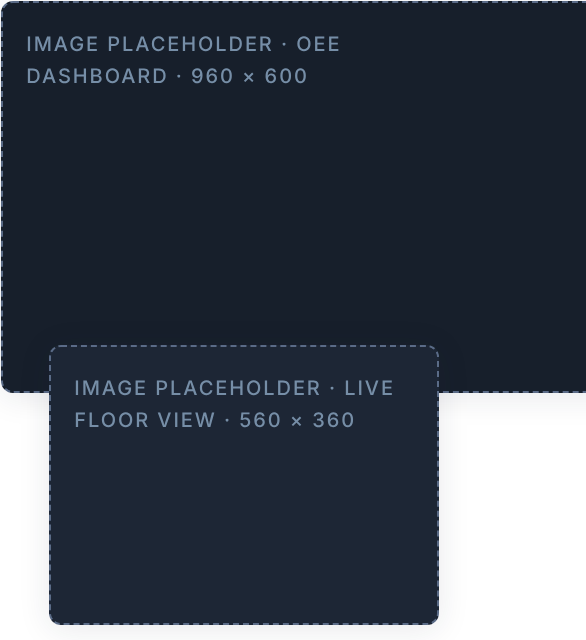
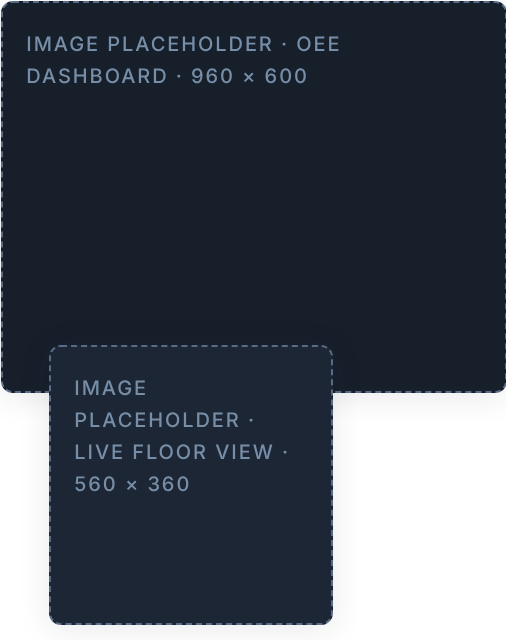
Remove eyebrow numbers and keep header visual inside page padding
Section eyebrows drop their 1-5 prefixes in the web and email versions.
The header screenshot placeholders no longer bleed past the right edge;
the email header image is re-rendered to fit the padded column and is
capped in width on narrow screens.

Claude-Session: https://claude.ai/code/session_01MrrDo2iV2opqVubPzurkxo

diff --git a/faclon-cnc-newsletter/faclon-cnc-intelligence-newsletter-email.html b/faclon-cnc-newsletter/faclon-cnc-intelligence-newsletter-email.html
@@ -24,8 +24,8 @@ a{text-decoration:none;}
 .m-hide{display:none!important;}
 .m-card{height:auto!important;margin-top:16px!important;}
 .m-autoh{height:auto!important;}
-.m-visual{padding:32px 0 0 16px!important;}
-.m-visual img{width:100%!important;}
+.m-visual{padding:32px 16px 0 16px!important;}
+.m-visual img{width:100%!important;max-width:400px!important;}
 .m-h1{font-size:32px!important;line-height:40px!important;}
 .m-h2{font-size:24px!important;line-height:32px!important;}
 .m-fig{font-size:40px!important;line-height:48px!important;}
@@ -49,16 +49,16 @@ a{text-decoration:none;}
 <p style="margin:0;font-family:Inter,Arial,Helvetica,sans-serif;font-size:16px;line-height:24px;color:#CBD5E2;">Spindle hours without a work order, stops without a reason, and OEE built on manual entries quietly drain capacity every shift.</p>
 </td>
 <td class="m-hide" width="32" style="width:32px;font-size:0;line-height:0;">&nbsp;</td>
-<td class="m-col m-visual" width="293" valign="top" style="width:293px;padding:0;">
-<img src="https://raw.githubusercontent.com/ayushiajmera2-lab/Design-KIT/claude/quirky-thompson-3u2ke2/faclon-cnc-newsletter/email-assets/header-visual.png" width="293" height="320" alt="Image placeholder: OEE dashboard and live floor view" style="display:block;width:293px;height:auto;border:0;outline:none;">
+<td class="m-col m-visual" width="293" valign="top" style="width:253px;padding:0 40px 0 0;">
+<img src="https://raw.githubusercontent.com/ayushiajmera2-lab/Design-KIT/claude/quirky-thompson-3u2ke2/faclon-cnc-newsletter/email-assets/header-visual.png" width="253" height="320" alt="Image placeholder: OEE dashboard and live floor view" style="display:block;width:253px;height:auto;border:0;outline:none;">
 </td>
 </tr></table></td></tr><tr><td class="m-sec" bgcolor="#FFFFFF" style="background-color:#FFFFFF;padding:56px 40px;">
-<table role="presentation" width="100%" cellpadding="0" cellspacing="0" border="0"><tr><td style="padding:0 0 32px 0;"><p style="margin:0 0 12px 0;font-family:Inter,Arial,Helvetica,sans-serif;font-size:12px;line-height:18px;font-weight:600;letter-spacing:0.96px;text-transform:uppercase;color:#165FF2;">1. Where CNC Productivity Disappears</p><h2 class="m-h2" style="margin:0 0 12px 0;font-family:'TASA Orbiter',Arial,Helvetica,sans-serif;font-size:32px;line-height:40px;font-weight:600;letter-spacing:-0.01em;color:#0C1927;">Runtime You Can't Explain Is Capacity You Can't Recover</h2><p style="margin:0;font-family:Inter,Arial,Helvetica,sans-serif;font-size:16px;line-height:24px;color:#40566D;">Most shops know when a machine is running. Few know what it's running, for whom, or why it stopped.</p></td></tr><tr><td style="padding:0 0 24px 0;"><table role="presentation" width="100%" cellpadding="0" cellspacing="0" border="0"><tr><td width="8" valign="top" style="padding-top:8px;padding-bottom:12px;"><div style="width:8px;height:8px;background-color:#165FF2;border-radius:2px;font-size:0;line-height:0;">&nbsp;</div></td>
+<table role="presentation" width="100%" cellpadding="0" cellspacing="0" border="0"><tr><td style="padding:0 0 32px 0;"><p style="margin:0 0 12px 0;font-family:Inter,Arial,Helvetica,sans-serif;font-size:12px;line-height:18px;font-weight:600;letter-spacing:0.96px;text-transform:uppercase;color:#165FF2;">Where CNC Productivity Disappears</p><h2 class="m-h2" style="margin:0 0 12px 0;font-family:'TASA Orbiter',Arial,Helvetica,sans-serif;font-size:32px;line-height:40px;font-weight:600;letter-spacing:-0.01em;color:#0C1927;">Runtime You Can't Explain Is Capacity You Can't Recover</h2><p style="margin:0;font-family:Inter,Arial,Helvetica,sans-serif;font-size:16px;line-height:24px;color:#40566D;">Most shops know when a machine is running. Few know what it's running, for whom, or why it stopped.</p></td></tr><tr><td style="padding:0 0 24px 0;"><table role="presentation" width="100%" cellpadding="0" cellspacing="0" border="0"><tr><td width="8" valign="top" style="padding-top:8px;padding-bottom:12px;"><div style="width:8px;height:8px;background-color:#165FF2;border-radius:2px;font-size:0;line-height:0;">&nbsp;</div></td>
 <td valign="top" style="padding-left:12px;padding-bottom:12px;font-family:Inter,Arial,Helvetica,sans-serif;font-size:16px;line-height:24px;color:#243547;">Spindle hours aren't linked to jobs or operators</td></tr><tr><td width="8" valign="top" style="padding-top:8px;padding-bottom:12px;"><div style="width:8px;height:8px;background-color:#165FF2;border-radius:2px;font-size:0;line-height:0;">&nbsp;</div></td>
 <td valign="top" style="padding-left:12px;padding-bottom:12px;font-family:Inter,Arial,Helvetica,sans-serif;font-size:16px;line-height:24px;color:#243547;">Downtime reasons are logged late, inaccurately, or not at all</td></tr><tr><td width="8" valign="top" style="padding-top:8px;padding-bottom:12px;"><div style="width:8px;height:8px;background-color:#165FF2;border-radius:2px;font-size:0;line-height:0;">&nbsp;</div></td>
 <td valign="top" style="padding-left:12px;padding-bottom:12px;font-family:Inter,Arial,Helvetica,sans-serif;font-size:16px;line-height:24px;color:#243547;">OEE is estimated at shift-end from manual inputs</td></tr><tr><td width="8" valign="top" style="padding-top:8px;"><div style="width:8px;height:8px;background-color:#165FF2;border-radius:2px;font-size:0;line-height:0;">&nbsp;</div></td>
 <td valign="top" style="padding-left:12px;font-family:Inter,Arial,Helvetica,sans-serif;font-size:16px;line-height:24px;color:#243547;">Losses surface only in reviews, long after they could be fixed</td></tr></table></td></tr><tr><td bgcolor="#F4F8FF" style="background-color:#F4F8FF;border-left:3px solid #165FF2;border-radius:4px;padding:16px 20px;font-family:Inter,Arial,Helvetica,sans-serif;font-size:16px;line-height:24px;font-weight:600;color:#0C1927;">The result: reporting you can't trust and losses you can't see.</td></tr></table></td></tr><tr><td class="m-sec" bgcolor="#F1F5FA" style="background-color:#F1F5FA;padding:56px 40px;">
-<table role="presentation" width="100%" cellpadding="0" cellspacing="0" border="0"><tr><td style="padding:0 0 32px 0;"><p style="margin:0 0 12px 0;font-family:Inter,Arial,Helvetica,sans-serif;font-size:12px;line-height:18px;font-weight:600;letter-spacing:0.96px;text-transform:uppercase;color:#165FF2;">2. Faclon Labs CNC Intelligence</p><h2 class="m-h2" style="margin:0 0 12px 0;font-family:'TASA Orbiter',Arial,Helvetica,sans-serif;font-size:32px;line-height:40px;font-weight:600;letter-spacing:-0.01em;color:#0C1927;">Every Spindle Hour. Every Stop. Every Job. Accounted For.</h2><p style="margin:0;font-family:Inter,Arial,Helvetica,sans-serif;font-size:16px;line-height:24px;color:#40566D;">Faclon Labs connects with your CNC fleet to capture machine states, control spindle access and calculate OEE from actual machine data.</p></td></tr><tr><td><table role="presentation" width="100%" cellpadding="0" cellspacing="0" border="0"><tr><td class="m-col m-card" width="296" valign="top" height="379" bgcolor="#FFFFFF" style="width:296px;height:379px;background-color:#FFFFFF;border-radius:6px;padding:16px;box-shadow:0 2px 16px rgba(25,40,57,0.10);"><table role="presentation" class="m-autoh" width="100%" height="100%" cellpadding="0" cellspacing="0" border="0" style="height:100%;">
+<table role="presentation" width="100%" cellpadding="0" cellspacing="0" border="0"><tr><td style="padding:0 0 32px 0;"><p style="margin:0 0 12px 0;font-family:Inter,Arial,Helvetica,sans-serif;font-size:12px;line-height:18px;font-weight:600;letter-spacing:0.96px;text-transform:uppercase;color:#165FF2;">Faclon Labs CNC Intelligence</p><h2 class="m-h2" style="margin:0 0 12px 0;font-family:'TASA Orbiter',Arial,Helvetica,sans-serif;font-size:32px;line-height:40px;font-weight:600;letter-spacing:-0.01em;color:#0C1927;">Every Spindle Hour. Every Stop. Every Job. Accounted For.</h2><p style="margin:0;font-family:Inter,Arial,Helvetica,sans-serif;font-size:16px;line-height:24px;color:#40566D;">Faclon Labs connects with your CNC fleet to capture machine states, control spindle access and calculate OEE from actual machine data.</p></td></tr><tr><td><table role="presentation" width="100%" cellpadding="0" cellspacing="0" border="0"><tr><td class="m-col m-card" width="296" valign="top" height="379" bgcolor="#FFFFFF" style="width:296px;height:379px;background-color:#FFFFFF;border-radius:6px;padding:16px;box-shadow:0 2px 16px rgba(25,40,57,0.10);"><table role="presentation" class="m-autoh" width="100%" height="100%" cellpadding="0" cellspacing="0" border="0" style="height:100%;">
 <tr><td valign="top" style="padding:0 0 16px 0;font-family:'TASA Orbiter',Arial,Helvetica,sans-serif;font-size:20px;line-height:28px;font-weight:600;letter-spacing:-0.01em;color:#0C1927;">Spindle &amp; Work-Order Control</td></tr>
 <tr><td style="padding:0 0 16px 0;"><p style="margin:0 0 4px 0;font-family:'TASA Orbiter',Arial,Helvetica,sans-serif;font-size:16px;line-height:20px;font-weight:500;letter-spacing:-0.01em;color:#0C1927;">Spindle Interlocking</p><p style="margin:0;font-family:Inter,Arial,Helvetica,sans-serif;font-size:14px;line-height:22px;color:#40566D;">Machines run only against valid, open work orders assigned to them.</p></td></tr><tr><td style="padding:0 0 16px 0;"><p style="margin:0 0 4px 0;font-family:'TASA Orbiter',Arial,Helvetica,sans-serif;font-size:16px;line-height:20px;font-weight:500;letter-spacing:-0.01em;color:#0C1927;">Work-Order Traceability</p><p style="margin:0;font-family:Inter,Arial,Helvetica,sans-serif;font-size:14px;line-height:22px;color:#40566D;">Every run-hour and cycle is linked to the job, part and operator.</p></td></tr><tr><td style="padding:0 0 20px 0;"><p style="margin:0 0 4px 0;font-family:'TASA Orbiter',Arial,Helvetica,sans-serif;font-size:16px;line-height:20px;font-weight:500;letter-spacing:-0.01em;color:#0C1927;">Operator Validation</p><p style="margin:0;font-family:Inter,Arial,Helvetica,sans-serif;font-size:14px;line-height:22px;color:#40566D;">Work-order and operator checks happen at the machine before production starts.</p></td></tr>
 <tr><td valign="bottom" style="border-top:1px solid #E3EAF3;padding:12px 0 0 0;font-family:Inter,Arial,Helvetica,sans-serif;font-size:14px;line-height:22px;font-weight:600;color:#124ED0;">Every spindle hour tied to a job and operator.</td></tr></table></td><td class="m-hide" width="24" style="width:24px;font-size:0;line-height:0;">&nbsp;</td><td class="m-col m-card" width="296" valign="top" height="379" bgcolor="#FFFFFF" style="width:296px;height:379px;background-color:#FFFFFF;border-radius:6px;padding:16px;box-shadow:0 2px 16px rgba(25,40,57,0.10);"><table role="presentation" class="m-autoh" width="100%" height="100%" cellpadding="0" cellspacing="0" border="0" style="height:100%;">
@@ -71,7 +71,7 @@ a{text-decoration:none;}
 <tr><td valign="top" style="padding:0 0 16px 0;font-family:'TASA Orbiter',Arial,Helvetica,sans-serif;font-size:20px;line-height:28px;font-weight:600;letter-spacing:-0.01em;color:#0C1927;">Loss Visibility</td></tr>
 <tr><td style="padding:0 0 16px 0;"><p style="margin:0 0 4px 0;font-family:'TASA Orbiter',Arial,Helvetica,sans-serif;font-size:16px;line-height:20px;font-weight:500;letter-spacing:-0.01em;color:#0C1927;">Downtime Pareto Analytics</p><p style="margin:0;font-family:Inter,Arial,Helvetica,sans-serif;font-size:14px;line-height:22px;color:#40566D;">Rank recurring losses by machine, shift and job to identify the biggest causes.</p></td></tr><tr><td style="padding:0 0 16px 0;"><p style="margin:0 0 4px 0;font-family:'TASA Orbiter',Arial,Helvetica,sans-serif;font-size:16px;line-height:20px;font-weight:500;letter-spacing:-0.01em;color:#0C1927;">Live Alerts</p><p style="margin:0;font-family:Inter,Arial,Helvetica,sans-serif;font-size:14px;line-height:22px;color:#40566D;">Flag prolonged stops and performance drops as they happen.</p></td></tr><tr><td style="padding:0 0 20px 0;"><p style="margin:0 0 4px 0;font-family:'TASA Orbiter',Arial,Helvetica,sans-serif;font-size:16px;line-height:20px;font-weight:500;letter-spacing:-0.01em;color:#0C1927;">Shift-Wise Comparison</p><p style="margin:0;font-family:Inter,Arial,Helvetica,sans-serif;font-size:14px;line-height:22px;color:#40566D;">Compare performance across shifts to identify recurring patterns.</p></td></tr>
 <tr><td valign="bottom" style="border-top:1px solid #E3EAF3;padding:12px 0 0 0;font-family:Inter,Arial,Helvetica,sans-serif;font-size:14px;line-height:22px;font-weight:600;color:#124ED0;">Losses visible while they can still be fixed.</td></tr></table></td></tr></table></td></tr></table></td></tr><tr><td class="m-sec" bgcolor="#FFFFFF" style="background-color:#FFFFFF;padding:56px 40px;">
-<table role="presentation" width="100%" cellpadding="0" cellspacing="0" border="0"><tr><td style="padding:0 0 32px 0;"><p style="margin:0 0 12px 0;font-family:Inter,Arial,Helvetica,sans-serif;font-size:12px;line-height:18px;font-weight:600;letter-spacing:0.96px;text-transform:uppercase;color:#165FF2;">3. What Your Team Sees and Uses</p><h2 class="m-h2" style="margin:0 0 12px 0;font-family:'TASA Orbiter',Arial,Helvetica,sans-serif;font-size:32px;line-height:40px;font-weight:600;letter-spacing:-0.01em;color:#0C1927;">One Shop-Floor View. From Machine State to OEE.</h2><p style="margin:0;font-family:Inter,Arial,Helvetica,sans-serif;font-size:16px;line-height:24px;color:#40566D;">One on-premise platform, accessible from any plant computer or tablet on the LAN.</p></td></tr><tr><td><table role="presentation" width="100%" cellpadding="0" cellspacing="0" border="0"><tr><td class="m-col m-card" width="294" valign="top" bgcolor="#FFFFFF" style="width:294px;background-color:#FFFFFF;border:1px solid #E3EAF3;border-radius:6px;padding:16px;"><p style="margin:0 0 12px 0;font-family:'TASA Orbiter',Arial,Helvetica,sans-serif;font-size:18px;line-height:24px;font-weight:500;letter-spacing:-0.01em;color:#0C1927;">Operator Console</p><table role="presentation" width="100%" cellpadding="0" cellspacing="0" border="0"><tr><td width="8" valign="top" style="padding-top:7px;padding-bottom:12px;"><div style="width:8px;height:8px;background-color:#165FF2;border-radius:2px;font-size:0;line-height:0;">&nbsp;</div></td>
+<table role="presentation" width="100%" cellpadding="0" cellspacing="0" border="0"><tr><td style="padding:0 0 32px 0;"><p style="margin:0 0 12px 0;font-family:Inter,Arial,Helvetica,sans-serif;font-size:12px;line-height:18px;font-weight:600;letter-spacing:0.96px;text-transform:uppercase;color:#165FF2;">What Your Team Sees and Uses</p><h2 class="m-h2" style="margin:0 0 12px 0;font-family:'TASA Orbiter',Arial,Helvetica,sans-serif;font-size:32px;line-height:40px;font-weight:600;letter-spacing:-0.01em;color:#0C1927;">One Shop-Floor View. From Machine State to OEE.</h2><p style="margin:0;font-family:Inter,Arial,Helvetica,sans-serif;font-size:16px;line-height:24px;color:#40566D;">One on-premise platform, accessible from any plant computer or tablet on the LAN.</p></td></tr><tr><td><table role="presentation" width="100%" cellpadding="0" cellspacing="0" border="0"><tr><td class="m-col m-card" width="294" valign="top" bgcolor="#FFFFFF" style="width:294px;background-color:#FFFFFF;border:1px solid #E3EAF3;border-radius:6px;padding:16px;"><p style="margin:0 0 12px 0;font-family:'TASA Orbiter',Arial,Helvetica,sans-serif;font-size:18px;line-height:24px;font-weight:500;letter-spacing:-0.01em;color:#0C1927;">Operator Console</p><table role="presentation" width="100%" cellpadding="0" cellspacing="0" border="0"><tr><td width="8" valign="top" style="padding-top:7px;padding-bottom:12px;"><div style="width:8px;height:8px;background-color:#165FF2;border-radius:2px;font-size:0;line-height:0;">&nbsp;</div></td>
 <td valign="top" style="padding-left:12px;padding-bottom:12px;font-family:Inter,Arial,Helvetica,sans-serif;font-size:14px;line-height:22px;color:#243547;">Enter the work order and release the spindle in seconds</td></tr><tr><td width="8" valign="top" style="padding-top:7px;"><div style="width:8px;height:8px;background-color:#165FF2;border-radius:2px;font-size:0;line-height:0;">&nbsp;</div></td>
 <td valign="top" style="padding-left:12px;font-family:Inter,Arial,Helvetica,sans-serif;font-size:14px;line-height:22px;color:#243547;">Log downtime reasons directly at the machine</td></tr></table></td><td class="m-hide" width="24" style="width:24px;font-size:0;line-height:0;">&nbsp;</td><td class="m-col m-card" width="294" valign="top" bgcolor="#FFFFFF" style="width:294px;background-color:#FFFFFF;border:1px solid #E3EAF3;border-radius:6px;padding:16px;"><p style="margin:0 0 12px 0;font-family:'TASA Orbiter',Arial,Helvetica,sans-serif;font-size:18px;line-height:24px;font-weight:500;letter-spacing:-0.01em;color:#0C1927;">Live Floor View</p><table role="presentation" width="100%" cellpadding="0" cellspacing="0" border="0"><tr><td width="8" valign="top" style="padding-top:7px;padding-bottom:12px;"><div style="width:8px;height:8px;background-color:#165FF2;border-radius:2px;font-size:0;line-height:0;">&nbsp;</div></td>
 <td valign="top" style="padding-left:12px;padding-bottom:12px;font-family:Inter,Arial,Helvetica,sans-serif;font-size:14px;line-height:22px;color:#243547;">Every CNC on one screen, with live machine states</td></tr><tr><td width="8" valign="top" style="padding-top:7px;"><div style="width:8px;height:8px;background-color:#165FF2;border-radius:2px;font-size:0;line-height:0;">&nbsp;</div></td>
@@ -80,8 +80,8 @@ a{text-decoration:none;}
 <td valign="top" style="padding-left:12px;font-family:Inter,Arial,Helvetica,sans-serif;font-size:14px;line-height:22px;color:#243547;">Drill down from plant to machine, shift and job</td></tr></table></td><td class="m-hide" width="24" style="width:24px;font-size:0;line-height:0;">&nbsp;</td><td class="m-col m-card" width="294" valign="top" bgcolor="#FFFFFF" style="width:294px;background-color:#FFFFFF;border:1px solid #E3EAF3;border-radius:6px;padding:16px;"><p style="margin:0 0 12px 0;font-family:'TASA Orbiter',Arial,Helvetica,sans-serif;font-size:18px;line-height:24px;font-weight:500;letter-spacing:-0.01em;color:#0C1927;">Reports &amp; Records</p><table role="presentation" width="100%" cellpadding="0" cellspacing="0" border="0"><tr><td width="8" valign="top" style="padding-top:7px;padding-bottom:12px;"><div style="width:8px;height:8px;background-color:#165FF2;border-radius:2px;font-size:0;line-height:0;">&nbsp;</div></td>
 <td valign="top" style="padding-left:12px;padding-bottom:12px;font-family:Inter,Arial,Helvetica,sans-serif;font-size:14px;line-height:22px;color:#243547;">Shift summaries generated automatically</td></tr><tr><td width="8" valign="top" style="padding-top:7px;"><div style="width:8px;height:8px;background-color:#165FF2;border-radius:2px;font-size:0;line-height:0;">&nbsp;</div></td>
 <td valign="top" style="padding-left:12px;font-family:Inter,Arial,Helvetica,sans-serif;font-size:14px;line-height:22px;color:#243547;">Complete job history for costing, planning and audits</td></tr></table></td></tr></table></td></tr></table></td></tr><tr><td class="m-sec" bgcolor="#0C1927" style="background-color:#0C1927;padding:56px 40px;">
-<table role="presentation" width="100%" cellpadding="0" cellspacing="0" border="0"><tr><td style="padding:0 0 32px 0;"><p style="margin:0 0 12px 0;font-family:Inter,Arial,Helvetica,sans-serif;font-size:12px;line-height:18px;font-weight:600;letter-spacing:0.96px;text-transform:uppercase;color:#8AB1FB;">4. Business Impact</p><h2 class="m-h2" style="margin:0 0 0px 0;font-family:'TASA Orbiter',Arial,Helvetica,sans-serif;font-size:32px;line-height:40px;font-weight:600;letter-spacing:-0.01em;color:#F1F5FA;">What Changes When Every Spindle Hour Is Accountable</h2></td></tr><tr><td><table role="presentation" width="100%" cellpadding="0" cellspacing="0" border="0"><tr><td class="m-col m-card" width="274" valign="top" bgcolor="#171F2B" style="width:274px;background-color:#171F2B;border:1px solid #2D3A4D;border-radius:6px;padding:20px 16px;"><p class="m-fig" style="margin:0 0 8px 0;font-family:'TASA Orbiter',Arial,Helvetica,sans-serif;font-size:48px;line-height:56px;font-weight:700;letter-spacing:-0.02em;color:#68DD68;">20–35%</p><p style="margin:0 0 8px 0;font-family:'TASA Orbiter',Arial,Helvetica,sans-serif;font-size:20px;line-height:28px;font-weight:600;letter-spacing:-0.01em;color:#F1F5FA;">OEE Uplift</p><p style="margin:0;font-family:Inter,Arial,Helvetica,sans-serif;font-size:14px;line-height:22px;color:#CBD5E2;">On legacy CNC fleets</p></td><td class="m-hide" width="24" style="width:24px;font-size:0;line-height:0;">&nbsp;</td><td class="m-col m-card" width="274" valign="top" bgcolor="#171F2B" style="width:274px;background-color:#171F2B;border:1px solid #2D3A4D;border-radius:6px;padding:20px 16px;"><p class="m-fig" style="margin:0 0 8px 0;font-family:'TASA Orbiter',Arial,Helvetica,sans-serif;font-size:48px;line-height:56px;font-weight:700;letter-spacing:-0.02em;color:#68DD68;">100%</p><p style="margin:0 0 8px 0;font-family:'TASA Orbiter',Arial,Helvetica,sans-serif;font-size:20px;line-height:28px;font-weight:600;letter-spacing:-0.01em;color:#F1F5FA;">Order-Traceable Spindle Hours</p><p style="margin:0;font-family:Inter,Arial,Helvetica,sans-serif;font-size:14px;line-height:22px;color:#CBD5E2;">With zero ghost runtime</p></td></tr></table></td></tr><tr><td class="m-gap" height="24" style="height:24px;font-size:0;line-height:0;">&nbsp;</td></tr><tr><td><table role="presentation" width="100%" cellpadding="0" cellspacing="0" border="0"><tr><td class="m-col m-card" width="164" valign="top" bgcolor="#171F2B" style="width:164px;background-color:#171F2B;border:1px solid #2D3A4D;border-radius:6px;padding:20px 16px;"><p style="margin:0 0 8px 0;font-family:'TASA Orbiter',Arial,Helvetica,sans-serif;font-size:18px;line-height:24px;font-weight:500;letter-spacing:-0.01em;color:#F1F5FA;">Faster Loss Recovery</p><p style="margin:0;font-family:Inter,Arial,Helvetica,sans-serif;font-size:14px;line-height:22px;color:#CBD5E2;">Recurring stops become visible within the shift</p></td><td class="m-hide" width="24" style="width:24px;font-size:0;line-height:0;">&nbsp;</td><td class="m-col m-card" width="164" valign="top" bgcolor="#171F2B" style="width:164px;background-color:#171F2B;border:1px solid #2D3A4D;border-radius:6px;padding:20px 16px;"><p style="margin:0 0 8px 0;font-family:'TASA Orbiter',Arial,Helvetica,sans-serif;font-size:18px;line-height:24px;font-weight:500;letter-spacing:-0.01em;color:#F1F5FA;">Trusted Production Data</p><p style="margin:0;font-family:Inter,Arial,Helvetica,sans-serif;font-size:14px;line-height:22px;color:#CBD5E2;">Capacity, costing and scheduling based on actual machine behaviour</p></td><td class="m-hide" width="24" style="width:24px;font-size:0;line-height:0;">&nbsp;</td><td class="m-col m-card" width="164" valign="top" bgcolor="#171F2B" style="width:164px;background-color:#171F2B;border:1px solid #2D3A4D;border-radius:6px;padding:20px 16px;"><p style="margin:0 0 8px 0;font-family:'TASA Orbiter',Arial,Helvetica,sans-serif;font-size:18px;line-height:24px;font-weight:500;letter-spacing:-0.01em;color:#F1F5FA;">Less Manual Reporting</p><p style="margin:0;font-family:Inter,Arial,Helvetica,sans-serif;font-size:14px;line-height:22px;color:#CBD5E2;">Supervisors spend less time compiling data and more time acting on it</p></td></tr></table></td></tr><tr><td style="padding:32px 0 0 0;"><table role="presentation" width="100%" cellpadding="0" cellspacing="0" border="0"><tr><td style="border-top:1px solid #2D3A4D;padding:24px 0 0 0;font-family:'TASA Orbiter',Arial,Helvetica,sans-serif;font-size:20px;line-height:28px;font-weight:600;letter-spacing:-0.01em;color:#F1F5FA;">From machine activity to measurable productivity.</td></tr></table></td></tr></table></td></tr><tr><td class="m-sec" bgcolor="#FFFFFF" style="background-color:#FFFFFF;padding:56px 40px;">
-<table role="presentation" width="100%" cellpadding="0" cellspacing="0" border="0"><tr><td style="padding:0 0 32px 0;"><p style="margin:0 0 12px 0;font-family:Inter,Arial,Helvetica,sans-serif;font-size:12px;line-height:18px;font-weight:600;letter-spacing:0.96px;text-transform:uppercase;color:#165FF2;">5. Why Faclon Labs</p><h2 class="m-h2" style="margin:0 0 0px 0;font-family:'TASA Orbiter',Arial,Helvetica,sans-serif;font-size:32px;line-height:40px;font-weight:600;letter-spacing:-0.01em;color:#0C1927;">Built for Mixed, Legacy and Modern CNC Fleets</h2></td></tr><tr><td><table role="presentation" width="100%" cellpadding="0" cellspacing="0" border="0" bgcolor="#FFFFFF" style="background-color:#FFFFFF;border:1px solid #E3EAF3;border-radius:8px;border-collapse:separate;overflow:hidden;"><tr><td class="m-col m-why" width="50%" valign="top" style="width:50%;border-right:1px solid #E3EAF3;border-bottom:1px solid #E3EAF3;padding:24px;"><img src="https://raw.githubusercontent.com/ayushiajmera2-lab/Design-KIT/claude/quirky-thompson-3u2ke2/faclon-cnc-newsletter/email-assets/icon-controller.png" width="40" height="41" alt="" style="display:block;width:40px;height:auto;border:0;outline:none;margin:0 0 16px 0;"><p style="margin:0 0 8px 0;font-family:'TASA Orbiter',Arial,Helvetica,sans-serif;font-size:18px;line-height:24px;font-weight:500;letter-spacing:-0.01em;color:#0C1927;">Controller-Agnostic</p><p style="margin:0;font-family:Inter,Arial,Helvetica,sans-serif;font-size:14px;line-height:22px;color:#40566D;">Works alongside Fanuc, Siemens, Mitsubishi and legacy DROs.</p></td><td class="m-col m-why" width="50%" valign="top" style="width:50%;border-bottom:1px solid #E3EAF3;padding:24px;"><img src="https://raw.githubusercontent.com/ayushiajmera2-lab/Design-KIT/claude/quirky-thompson-3u2ke2/faclon-cnc-newsletter/email-assets/icon-disruption.png" width="40" height="41" alt="" style="display:block;width:40px;height:auto;border:0;outline:none;margin:0 0 16px 0;"><p style="margin:0 0 8px 0;font-family:'TASA Orbiter',Arial,Helvetica,sans-serif;font-size:18px;line-height:24px;font-weight:500;letter-spacing:-0.01em;color:#0C1927;">Zero Disruption</p><p style="margin:0;font-family:Inter,Arial,Helvetica,sans-serif;font-size:14px;line-height:22px;color:#40566D;">No ladder edits or controller modifications required.</p></td></tr><tr><td class="m-col m-why" width="50%" valign="top" style="width:50%;border-right:1px solid #E3EAF3;padding:24px;"><img src="https://raw.githubusercontent.com/ayushiajmera2-lab/Design-KIT/claude/quirky-thompson-3u2ke2/faclon-cnc-newsletter/email-assets/icon-secure.png" width="40" height="41" alt="" style="display:block;width:40px;height:auto;border:0;outline:none;margin:0 0 16px 0;"><p style="margin:0 0 8px 0;font-family:'TASA Orbiter',Arial,Helvetica,sans-serif;font-size:18px;line-height:24px;font-weight:500;letter-spacing:-0.01em;color:#0C1927;">On-Premise &amp; Secure</p><p style="margin:0;font-family:Inter,Arial,Helvetica,sans-serif;font-size:14px;line-height:22px;color:#40566D;">Software and data stay inside the plant, with no external data egress.</p></td><td class="m-col m-why m-why-last" width="50%" valign="top" style="width:50%;padding:24px;"><img src="https://raw.githubusercontent.com/ayushiajmera2-lab/Design-KIT/claude/quirky-thompson-3u2ke2/faclon-cnc-newsletter/email-assets/icon-scalable.png" width="40" height="41" alt="" style="display:block;width:40px;height:auto;border:0;outline:none;margin:0 0 16px 0;"><p style="margin:0 0 8px 0;font-family:'TASA Orbiter',Arial,Helvetica,sans-serif;font-size:18px;line-height:24px;font-weight:500;letter-spacing:-0.01em;color:#0C1927;">Scalable Platform</p><p style="margin:0;font-family:Inter,Arial,Helvetica,sans-serif;font-size:14px;line-height:22px;color:#40566D;">Start with a few machines and expand across cells, lines, energy, utilities and asset health.</p></td></tr></table></td></tr></table></td></tr><tr><td class="m-sec" bgcolor="#165FF2" style="background-color:#165FF2;padding:56px 40px;">
+<table role="presentation" width="100%" cellpadding="0" cellspacing="0" border="0"><tr><td style="padding:0 0 32px 0;"><p style="margin:0 0 12px 0;font-family:Inter,Arial,Helvetica,sans-serif;font-size:12px;line-height:18px;font-weight:600;letter-spacing:0.96px;text-transform:uppercase;color:#8AB1FB;">Business Impact</p><h2 class="m-h2" style="margin:0 0 0px 0;font-family:'TASA Orbiter',Arial,Helvetica,sans-serif;font-size:32px;line-height:40px;font-weight:600;letter-spacing:-0.01em;color:#F1F5FA;">What Changes When Every Spindle Hour Is Accountable</h2></td></tr><tr><td><table role="presentation" width="100%" cellpadding="0" cellspacing="0" border="0"><tr><td class="m-col m-card" width="274" valign="top" bgcolor="#171F2B" style="width:274px;background-color:#171F2B;border:1px solid #2D3A4D;border-radius:6px;padding:20px 16px;"><p class="m-fig" style="margin:0 0 8px 0;font-family:'TASA Orbiter',Arial,Helvetica,sans-serif;font-size:48px;line-height:56px;font-weight:700;letter-spacing:-0.02em;color:#68DD68;">20–35%</p><p style="margin:0 0 8px 0;font-family:'TASA Orbiter',Arial,Helvetica,sans-serif;font-size:20px;line-height:28px;font-weight:600;letter-spacing:-0.01em;color:#F1F5FA;">OEE Uplift</p><p style="margin:0;font-family:Inter,Arial,Helvetica,sans-serif;font-size:14px;line-height:22px;color:#CBD5E2;">On legacy CNC fleets</p></td><td class="m-hide" width="24" style="width:24px;font-size:0;line-height:0;">&nbsp;</td><td class="m-col m-card" width="274" valign="top" bgcolor="#171F2B" style="width:274px;background-color:#171F2B;border:1px solid #2D3A4D;border-radius:6px;padding:20px 16px;"><p class="m-fig" style="margin:0 0 8px 0;font-family:'TASA Orbiter',Arial,Helvetica,sans-serif;font-size:48px;line-height:56px;font-weight:700;letter-spacing:-0.02em;color:#68DD68;">100%</p><p style="margin:0 0 8px 0;font-family:'TASA Orbiter',Arial,Helvetica,sans-serif;font-size:20px;line-height:28px;font-weight:600;letter-spacing:-0.01em;color:#F1F5FA;">Order-Traceable Spindle Hours</p><p style="margin:0;font-family:Inter,Arial,Helvetica,sans-serif;font-size:14px;line-height:22px;color:#CBD5E2;">With zero ghost runtime</p></td></tr></table></td></tr><tr><td class="m-gap" height="24" style="height:24px;font-size:0;line-height:0;">&nbsp;</td></tr><tr><td><table role="presentation" width="100%" cellpadding="0" cellspacing="0" border="0"><tr><td class="m-col m-card" width="164" valign="top" bgcolor="#171F2B" style="width:164px;background-color:#171F2B;border:1px solid #2D3A4D;border-radius:6px;padding:20px 16px;"><p style="margin:0 0 8px 0;font-family:'TASA Orbiter',Arial,Helvetica,sans-serif;font-size:18px;line-height:24px;font-weight:500;letter-spacing:-0.01em;color:#F1F5FA;">Faster Loss Recovery</p><p style="margin:0;font-family:Inter,Arial,Helvetica,sans-serif;font-size:14px;line-height:22px;color:#CBD5E2;">Recurring stops become visible within the shift</p></td><td class="m-hide" width="24" style="width:24px;font-size:0;line-height:0;">&nbsp;</td><td class="m-col m-card" width="164" valign="top" bgcolor="#171F2B" style="width:164px;background-color:#171F2B;border:1px solid #2D3A4D;border-radius:6px;padding:20px 16px;"><p style="margin:0 0 8px 0;font-family:'TASA Orbiter',Arial,Helvetica,sans-serif;font-size:18px;line-height:24px;font-weight:500;letter-spacing:-0.01em;color:#F1F5FA;">Trusted Production Data</p><p style="margin:0;font-family:Inter,Arial,Helvetica,sans-serif;font-size:14px;line-height:22px;color:#CBD5E2;">Capacity, costing and scheduling based on actual machine behaviour</p></td><td class="m-hide" width="24" style="width:24px;font-size:0;line-height:0;">&nbsp;</td><td class="m-col m-card" width="164" valign="top" bgcolor="#171F2B" style="width:164px;background-color:#171F2B;border:1px solid #2D3A4D;border-radius:6px;padding:20px 16px;"><p style="margin:0 0 8px 0;font-family:'TASA Orbiter',Arial,Helvetica,sans-serif;font-size:18px;line-height:24px;font-weight:500;letter-spacing:-0.01em;color:#F1F5FA;">Less Manual Reporting</p><p style="margin:0;font-family:Inter,Arial,Helvetica,sans-serif;font-size:14px;line-height:22px;color:#CBD5E2;">Supervisors spend less time compiling data and more time acting on it</p></td></tr></table></td></tr><tr><td style="padding:32px 0 0 0;"><table role="presentation" width="100%" cellpadding="0" cellspacing="0" border="0"><tr><td style="border-top:1px solid #2D3A4D;padding:24px 0 0 0;font-family:'TASA Orbiter',Arial,Helvetica,sans-serif;font-size:20px;line-height:28px;font-weight:600;letter-spacing:-0.01em;color:#F1F5FA;">From machine activity to measurable productivity.</td></tr></table></td></tr></table></td></tr><tr><td class="m-sec" bgcolor="#FFFFFF" style="background-color:#FFFFFF;padding:56px 40px;">
+<table role="presentation" width="100%" cellpadding="0" cellspacing="0" border="0"><tr><td style="padding:0 0 32px 0;"><p style="margin:0 0 12px 0;font-family:Inter,Arial,Helvetica,sans-serif;font-size:12px;line-height:18px;font-weight:600;letter-spacing:0.96px;text-transform:uppercase;color:#165FF2;">Why Faclon Labs</p><h2 class="m-h2" style="margin:0 0 0px 0;font-family:'TASA Orbiter',Arial,Helvetica,sans-serif;font-size:32px;line-height:40px;font-weight:600;letter-spacing:-0.01em;color:#0C1927;">Built for Mixed, Legacy and Modern CNC Fleets</h2></td></tr><tr><td><table role="presentation" width="100%" cellpadding="0" cellspacing="0" border="0" bgcolor="#FFFFFF" style="background-color:#FFFFFF;border:1px solid #E3EAF3;border-radius:8px;border-collapse:separate;overflow:hidden;"><tr><td class="m-col m-why" width="50%" valign="top" style="width:50%;border-right:1px solid #E3EAF3;border-bottom:1px solid #E3EAF3;padding:24px;"><img src="https://raw.githubusercontent.com/ayushiajmera2-lab/Design-KIT/claude/quirky-thompson-3u2ke2/faclon-cnc-newsletter/email-assets/icon-controller.png" width="40" height="41" alt="" style="display:block;width:40px;height:auto;border:0;outline:none;margin:0 0 16px 0;"><p style="margin:0 0 8px 0;font-family:'TASA Orbiter',Arial,Helvetica,sans-serif;font-size:18px;line-height:24px;font-weight:500;letter-spacing:-0.01em;color:#0C1927;">Controller-Agnostic</p><p style="margin:0;font-family:Inter,Arial,Helvetica,sans-serif;font-size:14px;line-height:22px;color:#40566D;">Works alongside Fanuc, Siemens, Mitsubishi and legacy DROs.</p></td><td class="m-col m-why" width="50%" valign="top" style="width:50%;border-bottom:1px solid #E3EAF3;padding:24px;"><img src="https://raw.githubusercontent.com/ayushiajmera2-lab/Design-KIT/claude/quirky-thompson-3u2ke2/faclon-cnc-newsletter/email-assets/icon-disruption.png" width="40" height="41" alt="" style="display:block;width:40px;height:auto;border:0;outline:none;margin:0 0 16px 0;"><p style="margin:0 0 8px 0;font-family:'TASA Orbiter',Arial,Helvetica,sans-serif;font-size:18px;line-height:24px;font-weight:500;letter-spacing:-0.01em;color:#0C1927;">Zero Disruption</p><p style="margin:0;font-family:Inter,Arial,Helvetica,sans-serif;font-size:14px;line-height:22px;color:#40566D;">No ladder edits or controller modifications required.</p></td></tr><tr><td class="m-col m-why" width="50%" valign="top" style="width:50%;border-right:1px solid #E3EAF3;padding:24px;"><img src="https://raw.githubusercontent.com/ayushiajmera2-lab/Design-KIT/claude/quirky-thompson-3u2ke2/faclon-cnc-newsletter/email-assets/icon-secure.png" width="40" height="41" alt="" style="display:block;width:40px;height:auto;border:0;outline:none;margin:0 0 16px 0;"><p style="margin:0 0 8px 0;font-family:'TASA Orbiter',Arial,Helvetica,sans-serif;font-size:18px;line-height:24px;font-weight:500;letter-spacing:-0.01em;color:#0C1927;">On-Premise &amp; Secure</p><p style="margin:0;font-family:Inter,Arial,Helvetica,sans-serif;font-size:14px;line-height:22px;color:#40566D;">Software and data stay inside the plant, with no external data egress.</p></td><td class="m-col m-why m-why-last" width="50%" valign="top" style="width:50%;padding:24px;"><img src="https://raw.githubusercontent.com/ayushiajmera2-lab/Design-KIT/claude/quirky-thompson-3u2ke2/faclon-cnc-newsletter/email-assets/icon-scalable.png" width="40" height="41" alt="" style="display:block;width:40px;height:auto;border:0;outline:none;margin:0 0 16px 0;"><p style="margin:0 0 8px 0;font-family:'TASA Orbiter',Arial,Helvetica,sans-serif;font-size:18px;line-height:24px;font-weight:500;letter-spacing:-0.01em;color:#0C1927;">Scalable Platform</p><p style="margin:0;font-family:Inter,Arial,Helvetica,sans-serif;font-size:14px;line-height:22px;color:#40566D;">Start with a few machines and expand across cells, lines, energy, utilities and asset health.</p></td></tr></table></td></tr></table></td></tr><tr><td class="m-sec" bgcolor="#165FF2" style="background-color:#165FF2;padding:56px 40px;">
 <table role="presentation" width="100%" cellpadding="0" cellspacing="0" border="0"><tr><td style="padding:0;"><h2 class="m-h2" style="max-width:560px;margin:0 0 12px 0;font-family:'TASA Orbiter',Arial,Helvetica,sans-serif;font-size:32px;line-height:40px;font-weight:600;letter-spacing:-0.01em;color:#FFFFFF;">How Much of Your CNC Runtime Is Truly Accounted For?</h2>
 <p style="margin:0 0 32px 0;font-family:Inter,Arial,Helvetica,sans-serif;font-size:18px;line-height:28px;color:#DCE8FE;">See live OEE, spindle control and downtime analytics in a 20-minute walkthrough.</p>
 <table role="presentation" cellpadding="0" cellspacing="0" border="0"><tr><td bgcolor="#FFFFFF" style="background-color:#FFFFFF;border-radius:8px;">

diff --git a/faclon-cnc-newsletter/faclon-cnc-intelligence-newsletter.html b/faclon-cnc-newsletter/faclon-cnc-intelligence-newsletter.html
@@ -183,7 +183,7 @@
   .header .body-md{ color:var(--text-body-dark); }
 
   /* layered product screenshots: image placeholders */
-  .visual{ position:relative; height:320px; margin-right:calc(-1 * var(--gutter) - var(--space-56)); }
+  .visual{ position:relative; height:320px; }
   .shot{
     position:absolute;
     background:var(--bg-primary-dark);
@@ -344,7 +344,7 @@
     }
     .header{ padding:var(--space-24) var(--gutter) var(--padding-section); }
     .hero{ grid-template-columns:1fr; margin-top:var(--space-32); gap:var(--space-32); }
-    .visual{ height:260px; margin-right:calc(-1 * var(--gutter) - var(--space-40)); }
+    .visual{ height:260px; }
     .shot.main{ height:160px; }
     .shot.sub{ top:136px; width:64%; height:116px; }
     .header .glow{ top:420px; left:-520px; }
@@ -393,7 +393,7 @@
   <!-- ================= 1. PROBLEM ================= -->
   <section class="problem">
     <div class="section-head">
-      <p class="eyebrow">1. Where CNC Productivity Disappears</p>
+      <p class="eyebrow">Where CNC Productivity Disappears</p>
       <h2 class="h2">Runtime You Can't Explain Is Capacity You Can't Recover</h2>
       <p class="body-md">Most shops know when a machine is running. Few know what it's running, for whom, or why it stopped.</p>
     </div>
@@ -409,7 +409,7 @@
   <!-- ================= 2. SOLUTION ================= -->
   <section class="solution">
     <div class="section-head">
-      <p class="eyebrow">2. Faclon Labs CNC Intelligence</p>
+      <p class="eyebrow">Faclon Labs CNC Intelligence</p>
       <h2 class="h2">Every Spindle Hour. Every Stop. Every Job. Accounted For.</h2>
       <p class="body-md">Faclon Labs connects with your CNC fleet to capture machine states, control spindle access and calculate OEE from actual machine data.</p>
     </div>
@@ -495,7 +495,7 @@
   <!-- ================= 3. WHAT YOUR TEAM SEES ================= -->
   <section class="platform">
     <div class="section-head">
-      <p class="eyebrow">3. What Your Team Sees and Uses</p>
+      <p class="eyebrow">What Your Team Sees and Uses</p>
       <h2 class="h2">One Shop-Floor View. From Machine State to OEE.</h2>
       <p class="body-md">One on-premise platform, accessible from any plant computer or tablet on the LAN.</p>
     </div>
@@ -534,7 +534,7 @@
   <!-- ================= 4. BUSINESS IMPACT ================= -->
   <section class="impact">
     <div class="section-head">
-      <p class="eyebrow">4. Business Impact</p>
+      <p class="eyebrow">Business Impact</p>
       <h2 class="h2">What Changes When Every Spindle Hour Is Accountable</h2>
     </div>
     <div class="stats">
@@ -567,7 +567,7 @@
   <!-- ================= 5. WHY FACLON LABS ================= -->
   <section class="why">
     <div class="section-head">
-      <p class="eyebrow">5. Why Faclon Labs</p>
+      <p class="eyebrow">Why Faclon Labs</p>
       <h2 class="h2">Built for Mixed, Legacy and Modern CNC Fleets</h2>
     </div>
     <div class="why-panel">
